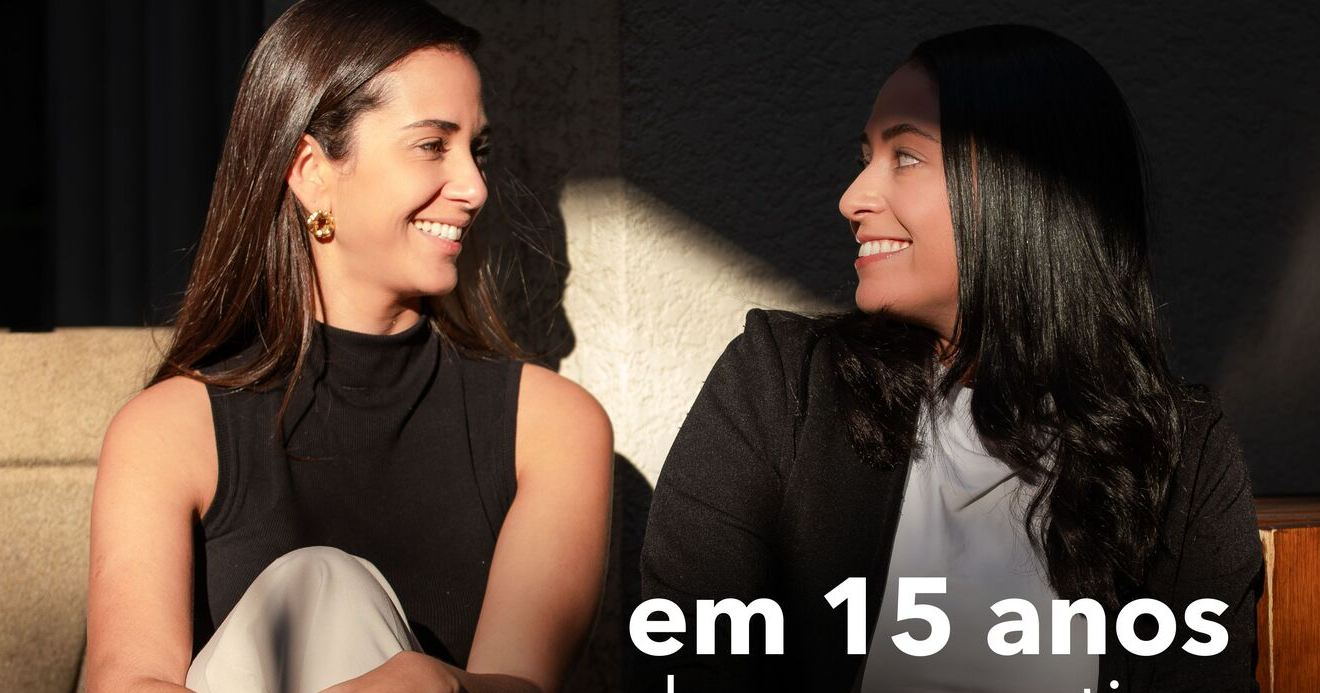
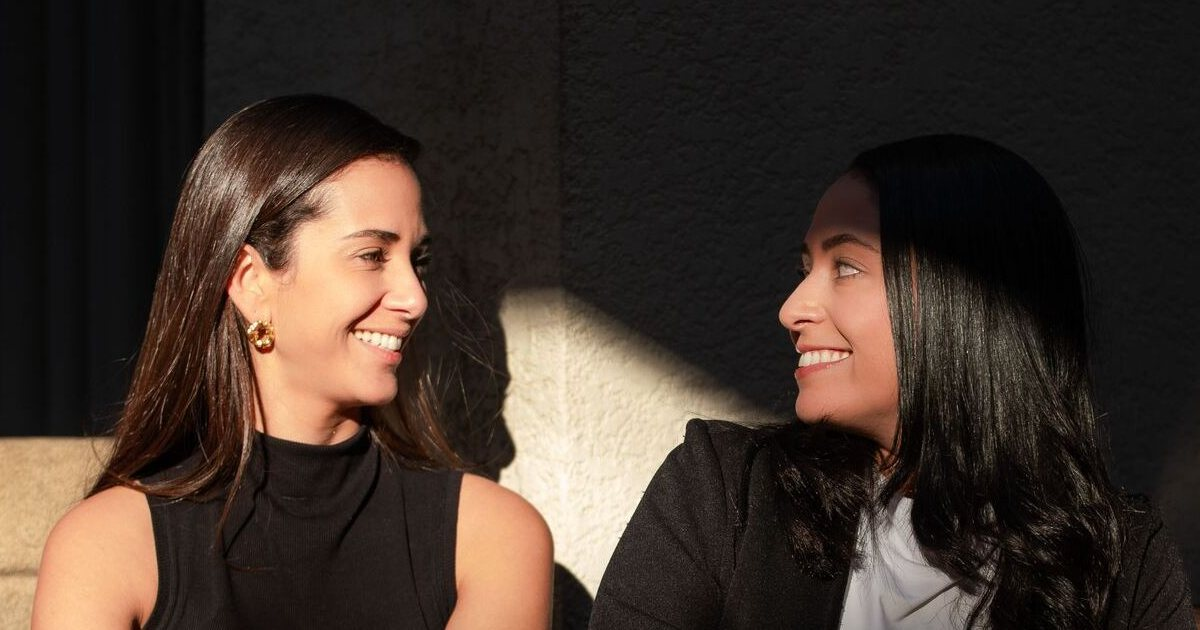
feat: og tags completas e og-image 1200x630

diff --git a/index.html b/index.html
@@ -8,11 +8,20 @@
 <link rel="canonical" href="https://mira-consultoria.vercel.app/">
 <meta property="og:type" content="website">
 <meta property="og:locale" content="pt_BR">
+<meta property="og:site_name" content="MIRA Consultoria e Mentoria">
 <meta property="og:title" content="MIRA · Mentoria de carreira e consultoria para negócios">
-<meta property="og:description" content="Competência te trouxe até aqui. Estratégia te leva adiante.">
+<meta property="og:description" content="Competência te trouxe até aqui. Estratégia te leva adiante. Mentoria e consultoria por quem passou 15 anos dentro do corporativo.">
 <meta property="og:url" content="https://mira-consultoria.vercel.app/">
 <meta property="og:image" content="https://mira-consultoria.vercel.app/img/og-image.jpg">
+<meta property="og:image:secure_url" content="https://mira-consultoria.vercel.app/img/og-image.jpg">
+<meta property="og:image:type" content="image/jpeg">
+<meta property="og:image:width" content="1200">
+<meta property="og:image:height" content="630">
+<meta property="og:image:alt" content="As duas sócias fundadoras da MIRA, lado a lado">
 <meta name="twitter:card" content="summary_large_image">
+<meta name="twitter:title" content="MIRA · Mentoria de carreira e consultoria para negócios">
+<meta name="twitter:description" content="Competência te trouxe até aqui. Estratégia te leva adiante.">
+<meta name="twitter:image" content="https://mira-consultoria.vercel.app/img/og-image.jpg">
 <link rel="preconnect" href="https://fonts.googleapis.com">
 <link rel="preconnect" href="https://fonts.gstatic.com" crossorigin>
 <link href="https://fonts.googleapis.com/css2?family=Fraunces:ital,opsz,wght@0,9..144,300..700;1,9..144,300..700&family=Inter:wght@400;500;600&display=swap" rel="stylesheet">
